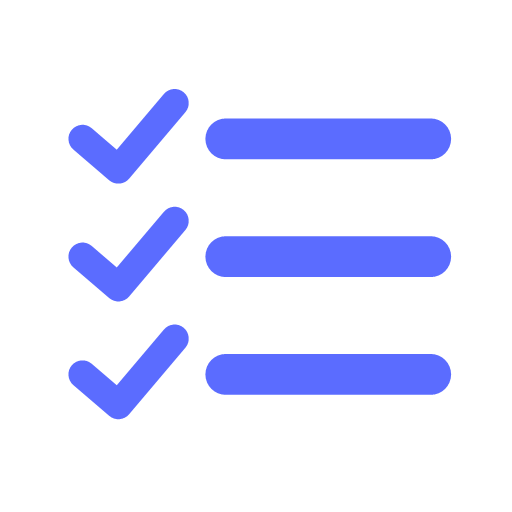
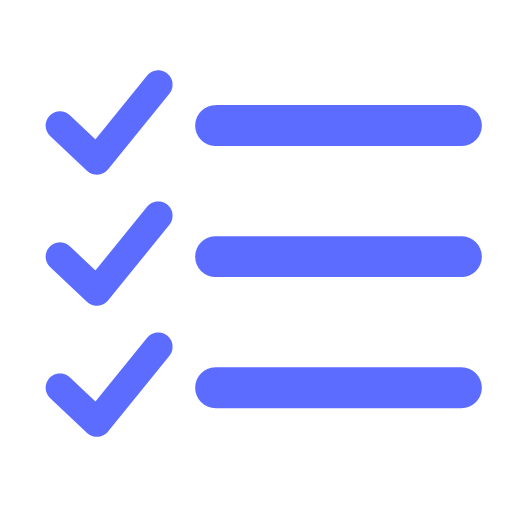
fix: 아이콘 purpose 분리 및 설치 UI 스크린샷 추가

diff --git a/sw.js b/sw.js
@@ -1,11 +1,15 @@
 /* To Do List 서비스워커 — 앱셸 캐시(상대경로) + 오프라인 동작 */
-const CACHE = "todolist-v4";
+const CACHE = "todolist-v5";
 const ASSETS = [
   "./",
   "./index.html",
   "./manifest.json",
   "./icons/icon-192.png",
   "./icons/icon-512.png",
+  "./icons/icon-192-maskable.png",
+  "./icons/icon-512-maskable.png",
+  "./screenshots/screenshot-wide.png",
+  "./screenshots/screenshot-mobile.png",
 ];
 
 self.addEventListener("install", (e) => {